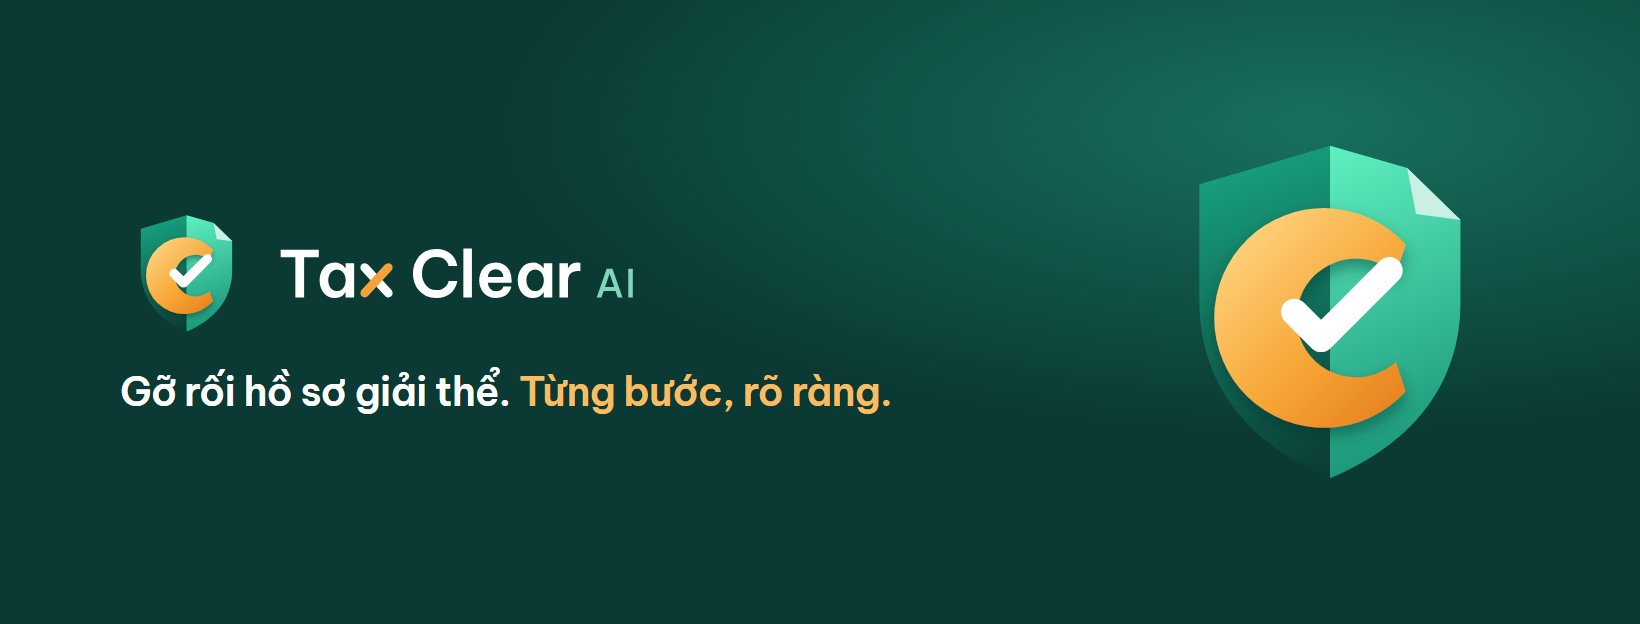
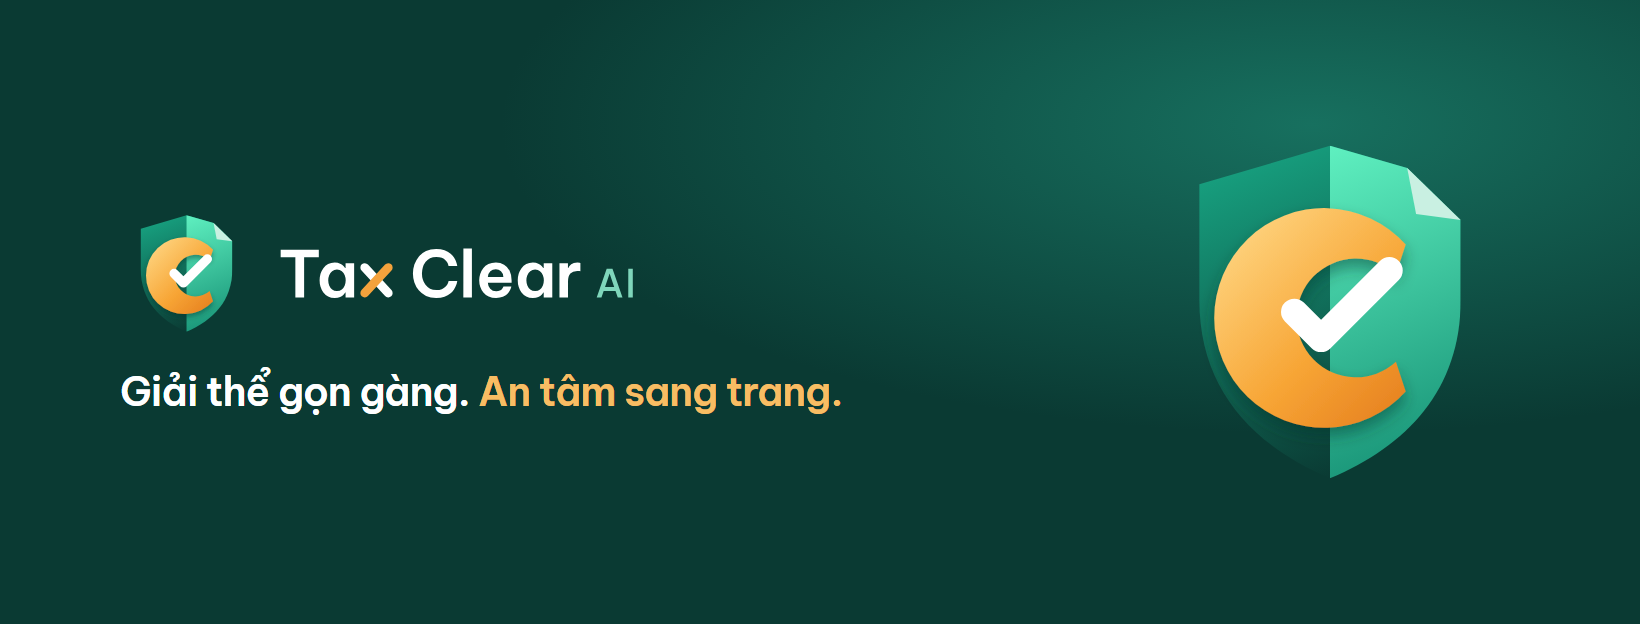
feat(brand): new slogan "Giải thể gọn gàng. An tâm sang trang."
Home hero, Open Graph title and image, Facebook cover, LinkedIn banner
and slide cover regenerated with the new slogan.

Changed region(s): [[0.0933, 0.5785, 0.5598, 0.6699]]

diff --git a/frontend/src/app/page.tsx b/frontend/src/app/page.tsx
@@ -33,9 +33,9 @@ export default function HomePage() {
           <div className="hero-copy">
             <span className="pill">Trợ lý thủ tục giải thể &amp; thuế</span>
             <h1>
-              Gỡ rối hồ sơ.
+              Giải thể gọn gàng.
               <br />
-              <span>Biết bước chuẩn bị tiếp theo.</span>
+              <span>An tâm sang trang.</span>
             </h1>
             <p className="hero-description">
               Tax Clear AI giúp doanh nghiệp từng hoạt động muốn giải thể ghi nhận tình trạng, sắp

diff --git a/frontend/src/app/layout.tsx b/frontend/src/app/layout.tsx
@@ -19,7 +19,7 @@ export const metadata: Metadata = {
     'Ghi nhận tình trạng doanh nghiệp, sắp xếp checklist và chuẩn bị khảo sát với chuyên viên.',
   applicationName: 'Tax Clear AI',
   openGraph: {
-    title: 'Tax Clear AI — Gỡ rối hồ sơ. Biết bước chuẩn bị tiếp theo.',
+    title: 'Tax Clear AI — Giải thể gọn gàng. An tâm sang trang.',
     description: 'Trợ lý chuẩn bị hồ sơ giải thể cho doanh nghiệp. Bản thử nghiệm.',
     locale: 'vi_VN',
     type: 'website',

diff --git a/docs/brand/tools/build_brand.py b/docs/brand/tools/build_brand.py
@@ -361,7 +361,7 @@ def social(page, svgs: dict[str, Path]) -> None:
         f"""<div class="canvas light" style="padding:72px 80px;display:grid;align-content:space-between">
         {big_ghost}{fit(logo_h, 430)}
         <div><span class="tag" style="font-size:22px">Trợ lý chuẩn bị hồ sơ giải thể</span>
-        <h1 style="font-size:64px;line-height:1.08;letter-spacing:-.03em;margin:22px 0 0;max-width:1040px">Gỡ rối hồ sơ.<br><span style="color:#17705f">Biết bước chuẩn bị tiếp theo.</span></h1></div>
+        <h1 style="font-size:64px;line-height:1.08;letter-spacing:-.03em;margin:22px 0 0;max-width:1040px">Giải thể gọn gàng.<br><span style="color:#17705f">An tâm sang trang.</span></h1></div>
         <p style="margin:0;font-size:22px;color:#4d6764">Khảo sát 11 câu · Checklist giấy tờ · Hỏi đáp có trích dẫn văn bản</p></div>""",
     )
     shot(
@@ -382,7 +382,7 @@ def social(page, svgs: dict[str, Path]) -> None:
         624,
         f"""<div class="canvas dark" style="padding:0 120px;display:flex;align-items:center;justify-content:space-between">
         <div style="display:grid;gap:26px">{fit(logo_h_dark, 520)}
-        <p style="margin:0;font-size:40px;font-weight:600;letter-spacing:-.02em;max-width:820px">Gỡ rối hồ sơ giải thể. <span class="saffron">Từng bước, rõ ràng.</span></p></div>
+        <p style="margin:0;font-size:40px;font-weight:600;letter-spacing:-.02em;max-width:820px">Giải thể gọn gàng. <span class="saffron">An tâm sang trang.</span></p></div>
         {sized(mark_dark, 380, 380)}</div>""",
     )
     shot(
@@ -392,7 +392,7 @@ def social(page, svgs: dict[str, Path]) -> None:
         f"""<div class="canvas light" style="padding:0 96px;display:flex;align-items:center">
         {sized(mark, 560, 560).replace('<svg ', '<svg style="position:absolute;right:-90px;top:-82px" ', 1)}
         <div style="display:grid;gap:16px;max-width:980px">{fit(logo_h, 300)}
-        <p style="margin:0;font-size:46px;font-weight:600;letter-spacing:-.02em;line-height:1.15">Chuẩn bị hồ sơ giải thể, <span class="saffron">rõ ràng từng bước.</span></p></div></div>""",
+        <p style="margin:0;font-size:46px;font-weight:600;letter-spacing:-.02em;line-height:1.15">Giải thể gọn gàng. <span class="saffron">An tâm sang trang.</span></p></div></div>""",
     )
     shot(
         "slide-cover-1920x1080",
@@ -402,7 +402,7 @@ def social(page, svgs: dict[str, Path]) -> None:
         {sized(mark_dark, 1400, 1400).replace('<svg ', '<svg style="position:absolute;right:-420px;top:-160px;opacity:.16" ', 1)}
         {fit(logo_h_dark, 560)}
         <div style="display:grid;gap:30px"><span class="tag" style="font-size:26px;justify-self:start">Giới thiệu sản phẩm</span>
-        <h1 style="margin:0;font-size:120px;line-height:1;letter-spacing:-.04em;max-width:1300px">Gỡ rối hồ sơ.<br><span class="saffron">Biết bước tiếp theo.</span></h1></div>
+        <h1 style="margin:0;font-size:120px;line-height:1;letter-spacing:-.04em;max-width:1300px">Giải thể gọn gàng.<br><span class="saffron">An tâm sang trang.</span></h1></div>
         <p style="margin:0;font-size:28px;color:#c9f0e2">Trợ lý chuẩn bị hồ sơ giải thể cho doanh nghiệp · Bản thử nghiệm</p></div>""",
     )
 
